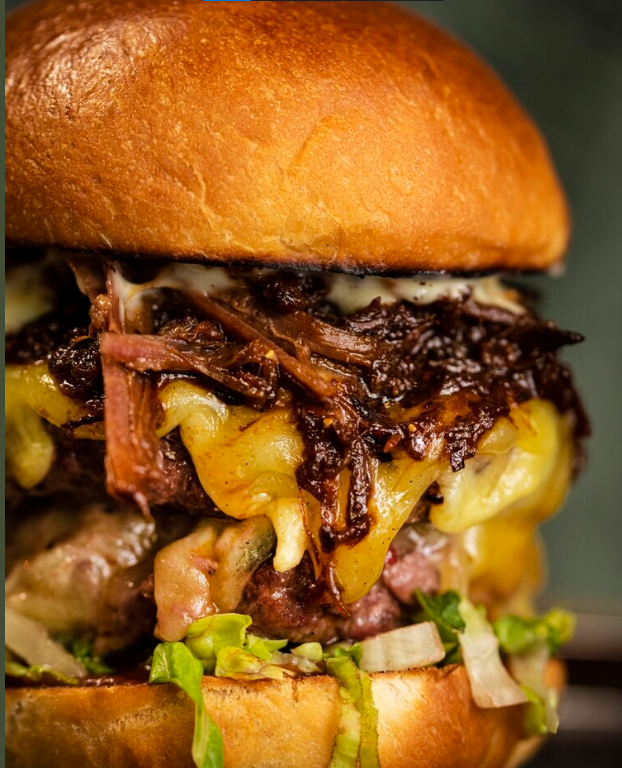
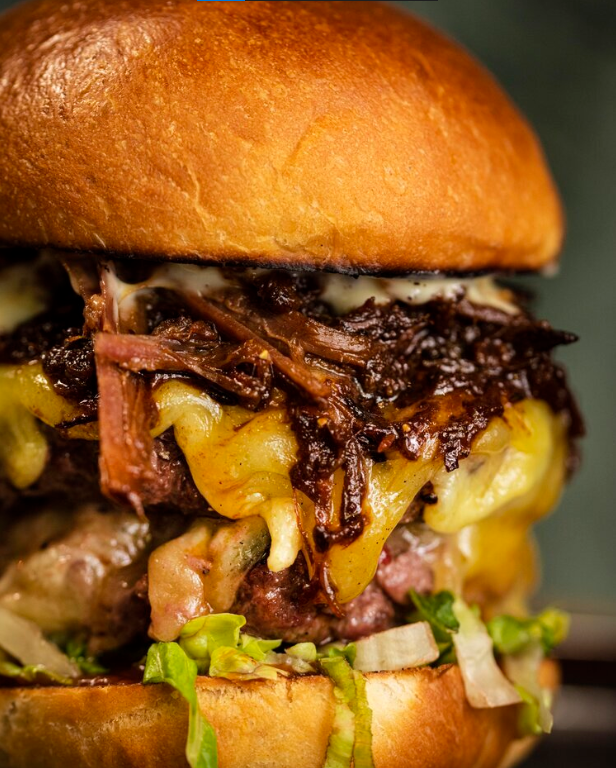
Styling a las img -  bordes

diff --git a/index.html b/index.html
@@ -45,11 +45,9 @@
     </div>
 
 <div class="container">
-
 <div class="image">
   <img src="/burguers/asado1.png" alt="meat burguer of Asado restaurant">   
 </div>
-
 <div class="text">
   <p id="asado">        
     <h4> <a href="https://www.asadobarcelona.com/" target="_blank">ASADO</a></h4>
@@ -69,12 +67,14 @@
   
 </div>
 
-
-    <p class="burguer">
-      <img
-        src="/burguers/caravelle2.png"
-        alt="meat burguer of Chivous restaurant"
-      ><h4><a href="https://www.chivuos.com/chivuos/" target="_blank">CHIVOU'S</a></h4>
+<div class="container">
+  <div class="image">
+    <img src="/burguers/caravelle2.png"
+    alt="meat burguer of Chivous restaurant">
+  </div>
+  <div class="text">
+    <p>
+      <h4><a href="https://www.chivuos.com/chivuos/" target="_blank">CHIVOU'S</a></h4>
       <b id="chivou">Chivuo’s</b> - A classic, hands down. Chivuo's has been around now
       for a few years, and they have created a name for themselves with their
       top-notch burgers and their “slow street food.” The pulled pork burger is
@@ -85,11 +85,19 @@
       (Raval), Carrer de València 204 (Eixample) and Carrer del Torrent de
       l’Olla 175 (Gracia)
     </p>
-    <p>
-      <img
-        src="/burguers/veganjunkfoodbar3.png"
-        alt="meet burguer at Vegan Junk Food Bar "
-      > <h4> <a href="https://www.caravellebcn.com/" target="_blank">CARAVELLE</a></h4>     
+    
+  </div>
+</div>
+  
+<div class="container">
+  <div class="image">
+    <img
+      src="/burguers/veganjunkfoodbar3.png"
+      alt="meet burguer at Vegan Junk Food Bar ">
+    </div>
+    <div class="text"> 
+      <p>
+      <h4> <a href="https://www.caravellebcn.com/" target="_blank">CARAVELLE</a></h4>      
       <b id="caravelle">Caravelle</b> - Their burger is AMAZING. The bun, the meat, the
       sauce, all of the ingredients, everything. Love this burger. Pair it with
       one of their craft beers, or their refreshing home-made sodas. Read my
@@ -99,6 +107,11 @@
           ><em><b> Barcelona</b> </em></i
         ></b
       >
+    </p>   
+  </div>
+</div>
+
+
       (Raval). Big Al’s - One of my absolute favorites. There is something about
       those curly fries that is simply irresistible. And the
       <em><b>burgers</b></em> are big and packed with flavor, topped with a
@@ -138,41 +151,61 @@
       you’ll want a seat at the bar). Passatge Marimón 20 (Sarria-Sant Gervasi).
     </p>
     <p>
-      <img
-        src="/burguers/barcentro4.png"
-        alt="meat burguer at Bar Centro Restaurant "
-      ><h4> <a href="https://barcentrobcn.es/" target="_blank">BAR CENTRO</a></h4>  
-      <b>Bar Centro </b> - Here, they make the kind of burgers that you’ve
-      seen and drooled over on Instagram. Ask for the weekly specials, there are
-      quite innovative! Only organic meat is used for their burgers. The pulled
-      pork burger is a classic here, and their sweet potato bravas are worth
-      adding to the order. Here they also know their craft beers, and you will
-      find a range of rotating taps to choose from (ask for guidance from the
-      knowledgeable staff). Read my review of Bar Centro here. Carrer del Casp
-      55 (Eixample).
-    </p>
-    <p>
-      <img
-        src="/burguers/timesburg5.png"
-        alt="meat burguer at Timesburg restaurant"
-      > <h4> <a href="https://timesburg.com/" target="_blank">TIMESBURG🍔</a></h4>        
-      <b id="timesburg">Timesburg -</b> Choose your burger and drinks first, and then take a
-      seat. My favorite burger here is without a doubt the one topped with foie
-      gras. Their fries are excellent, one of my favorites. They have a
-      Timesburg Gold location with premium options on the menu. Read my review
-      of Timesburg here. You can find all the Timesburg locations here.
-    </p>
-    <p>
-      <img
-        src="/burguers/laroyale6.png"
-        alt="meet burguer at La Royale restaurant"
-      ><h4> <a href=" https://www.laroyale.es/en" target="_blank">LA ROYALE</a></h4>      
-      <b id="laroyale">La Royale</b> - Gourmet burgers are the theme here, by famed chef Paco
-      Perez. The meat is hand-cut, and the patties grilled on the Josper. You
-      can pair your tasty burger with a gin tonic, or any other cocktail you
-      fancy. The place is cozy, and they have a terrace. You can opt for a
-      gluten-free bun if you wish. Plaça del Camp 5 (Sarria-Sant Gervasi).
-    </p>
+      <div class="container">
+        <div class="image">
+          <img
+            src="/burguers/barcentro4.png"
+            alt="meat burguer at Bar Centro Restaurant ">          
+        </div>
+        <div class="text">
+          <p>
+          <h4> <a href="https://barcentrobcn.es/" target="_blank">BAR CENTRO</a></h4>  
+          <b>Bar Centro </b> - Here, they make the kind of burgers that you’ve
+          seen and drooled over on Instagram. Ask for the weekly specials, there are
+          quite innovative! Only organic meat is used for their burgers. The pulled
+          pork burger is a classic here, and their sweet potato bravas are worth
+          adding to the order. Here they also know their craft beers, and you will
+          find a range of rotating taps to choose from (ask for guidance from the
+          knowledgeable staff). Read my review of Bar Centro here. Carrer del Casp
+          55 (Eixample).</p>          
+        </div>
+      </div>
+      <div class="container">
+        <div class="image">
+          <img
+            src="/burguers/timesburg5.png"
+            alt="meat burguer at Timesburg restaurant"
+          >         
+        </div>
+        <div class="text">
+          <p>
+          <h4> <a href="https://timesburg.com/" target="_blank">TIMESBURG🍔</a></h4>        
+          <b id="timesburg">Timesburg -</b> Choose your burger and drinks first, and then take a
+          seat. My favorite burger here is without a doubt the one topped with foie
+          gras. Their fries are excellent, one of my favorites. They have a
+          Timesburg Gold location with premium options on the menu. Read my review
+          of Timesburg here. You can find all the Timesburg locations here.
+        </p>          
+        </div>
+      </div>    
+      <div class="container">
+        <div class="image">
+          <img
+            src="/burguers/laroyale6.png"
+            alt="meet burguer at La Royale restaurant"
+          >         
+        </div>
+        <div class="text">
+          <p>
+          <h4> <a href=" https://www.laroyale.es/en" target="_blank">LA ROYALE</a></h4>      
+          <b id="laroyale">La Royale</b> - Gourmet burgers are the theme here, by famed chef Paco
+          Perez. The meat is hand-cut, and the patties grilled on the Josper. You
+          can pair your tasty burger with a gin tonic, or any other cocktail you
+          fancy. The place is cozy, and they have a terrace. You can opt for a
+          gluten-free bun if you wish. Plaça del Camp 5 (Sarria-Sant Gervasi).
+        </p>          
+        </div>
+      </div>
     <p>
       <b>Rare Burgers & More -</b> Try the famed Beyond Burger, made with 100%
       plant-based beyond meat. The burger menu is short and sweet, but you can’t
@@ -190,16 +223,23 @@
       specialties from Murcia to look out for. Read my review of La Porca here.
       Carrer de Mata 16 (Poble Sec).
     </p>
-    <p>
-      <img
-        src="/burguers/machakaburguer7.png"
-        alt="meet burguer at La Royale restaurant"
-      ><h4> <a href=" https://www.laroyale.es/en" target="_blank">MACHAKA BURGER</a></h4>      
-      <b id="machaka">Machaka Burger </b> - The restaurant is cool: the entrance is just
-      like an apartment and the bathroom is inside the fridge..! Their burgers
-      are straightforward smash burgers but with a lot of flavor. The desserts
-      are worth checking out. C/ Balmes 165 (Eixample).
-    </p>
+    <div class="container">
+      <div class="image">
+        <img
+          src="/burguers/machakaburguer7.png"
+          alt="meet burguer at La Royale restaurant"
+        >        
+      </div>
+      <div class="text">
+        <p>
+          <h4> <a href=" https://www.laroyale.es/en" target="_blank">MACHAKA BURGER</a></h4>      
+          <b id="machaka">Machaka Burger </b> - The restaurant is cool: the entrance is just
+          like an apartment and the bathroom is inside the fridge..! Their burgers
+          are straightforward smash burgers but with a lot of flavor. The desserts
+          are worth checking out. C/ Balmes 165 (Eixample).
+        </p>        
+      </div>
+    </div>
     <p>
       <b>BRO Barcelona - </b>I’m a fan of this charming burger place in the
       Barceloneta, with their interesting options for toppings, and their tasty
@@ -220,17 +260,25 @@
       top, and you can’t go wrong when choosing from the burger menu. C/
       Espaseria 10 (Born).
     </p>
-    <p>
-      <img
-        src="/burguers/lareal8.png"
-        alt="Big burguer from La real restaurant"
-      ><h4> <a href="https://www.larealbcn.com/" target="_blank">LA REAL</a></h4>     
-      <b id="lareal">La Real -</b> It’s impossible not to be charmed by La Real. They have
-      immensely tasty options on their menu: if you’re a cheese lover, make sure
-      to opt for the Raclette that comes with a huge, melted slice of raclette
-      cheese. I loved the parmesan fries. They have opened a second location in
-      Poblenou (C Dr Trueta 218). Carrer Valencia 285 (Eixample).
-    </p>
+
+    <div class="container">
+      <div class="image">
+        <img
+          src="/burguers/lareal8.png"
+          alt="Big burguer from La real restaurant"
+        >        
+      </div>
+      <div class="text">
+        <p>
+          <h4> <a href="https://www.larealbcn.com/" target="_blank">LA REAL</a></h4>     
+          <b id="lareal">La Real -</b> It’s impossible not to be charmed by La Real. They have
+          immensely tasty options on their menu: if you’re a cheese lover, make sure
+          to opt for the Raclette that comes with a huge, melted slice of raclette
+          cheese. I loved the parmesan fries. They have opened a second location in
+          Poblenou (C Dr Trueta 218). Carrer Valencia 285 (Eixample).
+        </p>        
+      </div>
+    </div>
     <p>
       <b>Santa Burg -</b> A classic from the moment it opened, and one of my
       absolute favorites. I have a massive weakness for the foie with apple.
@@ -280,15 +328,13 @@
       Deja Burg - Go for the Piquillo with an Idiazabal cheese, and their
       excellent fries. There is a lunch menu option, and there are have
       gluten-free buns available. Carrer de Còrsega, 216 (Eixample).
-    </p>
-
+    </p> 
     <p><h4> <a href="https://www.bacoaburger.com/en/" target="_blank">BACOA</a></h4>     
       <b id="bacoa">Bacoa -</b> A burger joint that has almost 10 years of experience, and
       has several spots in the city. The Cabrales burger is pretty impressive,
       with Cabrales blue cheese and caramelized onion. Here you can find a list
       of all of the Bacoa locations.
     </p>
-
     <p>
       <b>Oval</b> - This burger restaurant has been around for a while and
       remains a classic. Choose your bun, your patty, and the toppings. They
@@ -333,8 +379,11 @@
     </h4>
 
     <!-- Here is the footer -->
-    <div id="footer">
-      <img src="/burguers/footerburguer9.png" alt="digital black 6 white image of a burguer">
+    
+      <div id="footer">        
+               
+      </div>            
+      </div>
     </div>
   </body>
 </html>

diff --git a/main.css b/main.css
@@ -3,18 +3,12 @@
 --tangerine: #f48701ff;
 --coquelicot: #f94a1aff; */
 
-body {
+body {  
   font-family: "Glegoo", sans-serif;
   margin: 35px;
-  padding: 20px;
+  padding: 25px;
   background-color: white;
 }
-img{
-  border-radius: 15%;
-  border-color: white;
-
-}
-
 h1 {
   color: rgb(19, 18, 18);
   text-align: center;
@@ -31,9 +25,9 @@ h2 {
   font-family: "Pacifico", cursive;
 }
 
-#customers{
+#customers {
   margin-left: 17%;
-  margin-right: 10%;  
+  margin-right: 10%;
 }
 .burguer {
   background-color: #efa000ff;
@@ -42,41 +36,38 @@ h2 {
   border: 3px groove #efa000ff;
   border-radius: 11px;
 }
-
-#header { 
+#header {
   margin: 15px;
-  padding: 15px; 
+  padding: 15px;
   border-radius: 11px;
 }
-
 #footer {
+  width:80%;
   text-align: justify;
-  left: 25%;
-  right: 25%;
+  left: 15%;
+  right: 15%;
   background-color: #f94a1aff;
   margin: 10px;
   padding: 15px;
   border: 6px ridge #f94a1aff;
   border-radius: 11px;
 }
-
 .container {
+  margin: 3px;
+  padding: 13px;
   display: flex;
-  align-items:center;
-  justify-content: center; 
+  align-items: center;
+  justify-content: center;
 }
-.text{
+.text {
   margin: 10px;
-  padding-left: 20px;
-  line-height: 2em;
+  padding-left: 2%;
+  line-height: 35px;
 }
-.image {
-  width: 60%;
-  padding: 3px;
-  border-radius: 15%;
-  flex-basis: 50%;
+img {  
+  margin: 5px;
+  padding: 2px; 
+  border-radius: 10%;  
   border-color: white;
-  box-shadow: rgba(0, 0, 0, 0.6) 0px 2px 4px,
-  rgba(0, 0, 0, 0.5) 0px 7px 13px -3px, rgba(0, 0, 0, 0.4) 0px -3px 0px inset;
+  box-shadow: rgba(50, 50, 93, 0.25) 0px 50px 100px -20px, rgba(0, 0, 0, 0.3) 0px 30px 60px -30px, rgba(10, 37, 64, 0.35) 0px -2px 6px 0px inset;
 }
-

diff --git a/test.html b/test.html
@@ -23,10 +23,10 @@
   <body>
     <div class="container">
       <div class="image">
-        <img src="https://i.pinimg.com/originals/26/ea/fc/26eafc0b14488fea03fa8fa9751203ff.jpg">
+        <img src="">
       </div>
       <div class="text">
-        <h1>Paris is one of the most beautiful cities in France.</h1>
+        
       </div>
     </div>
   </body>
